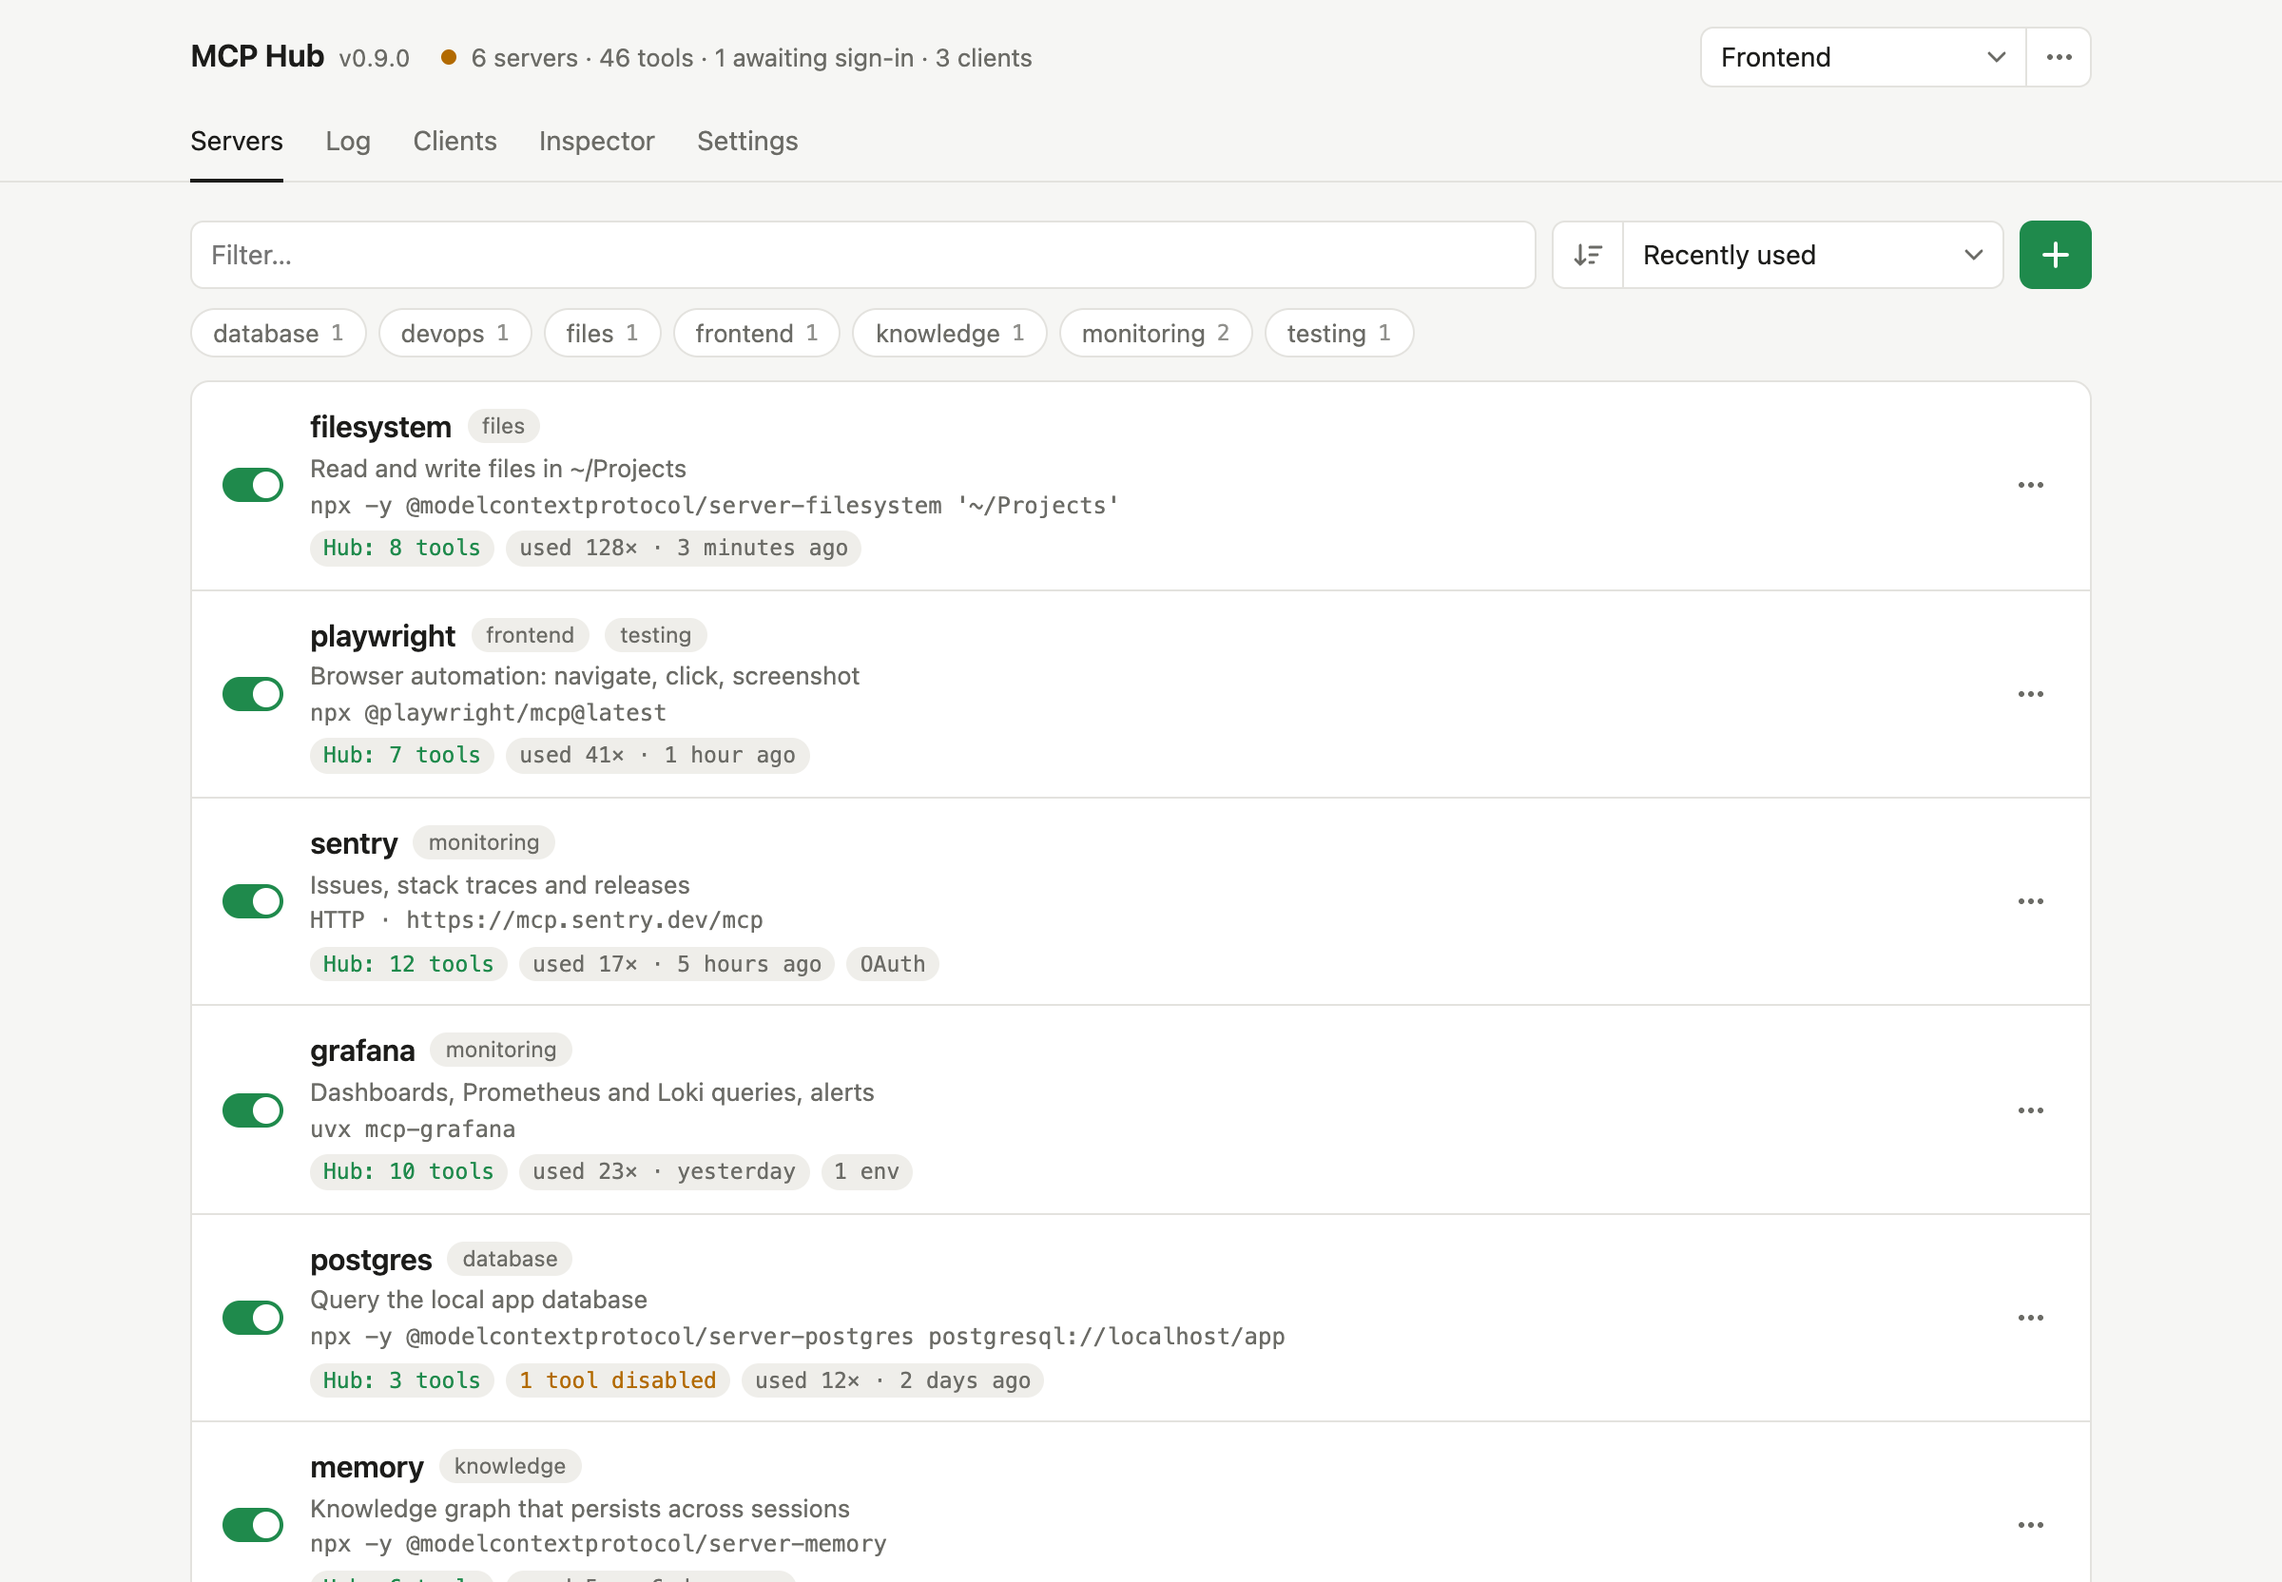
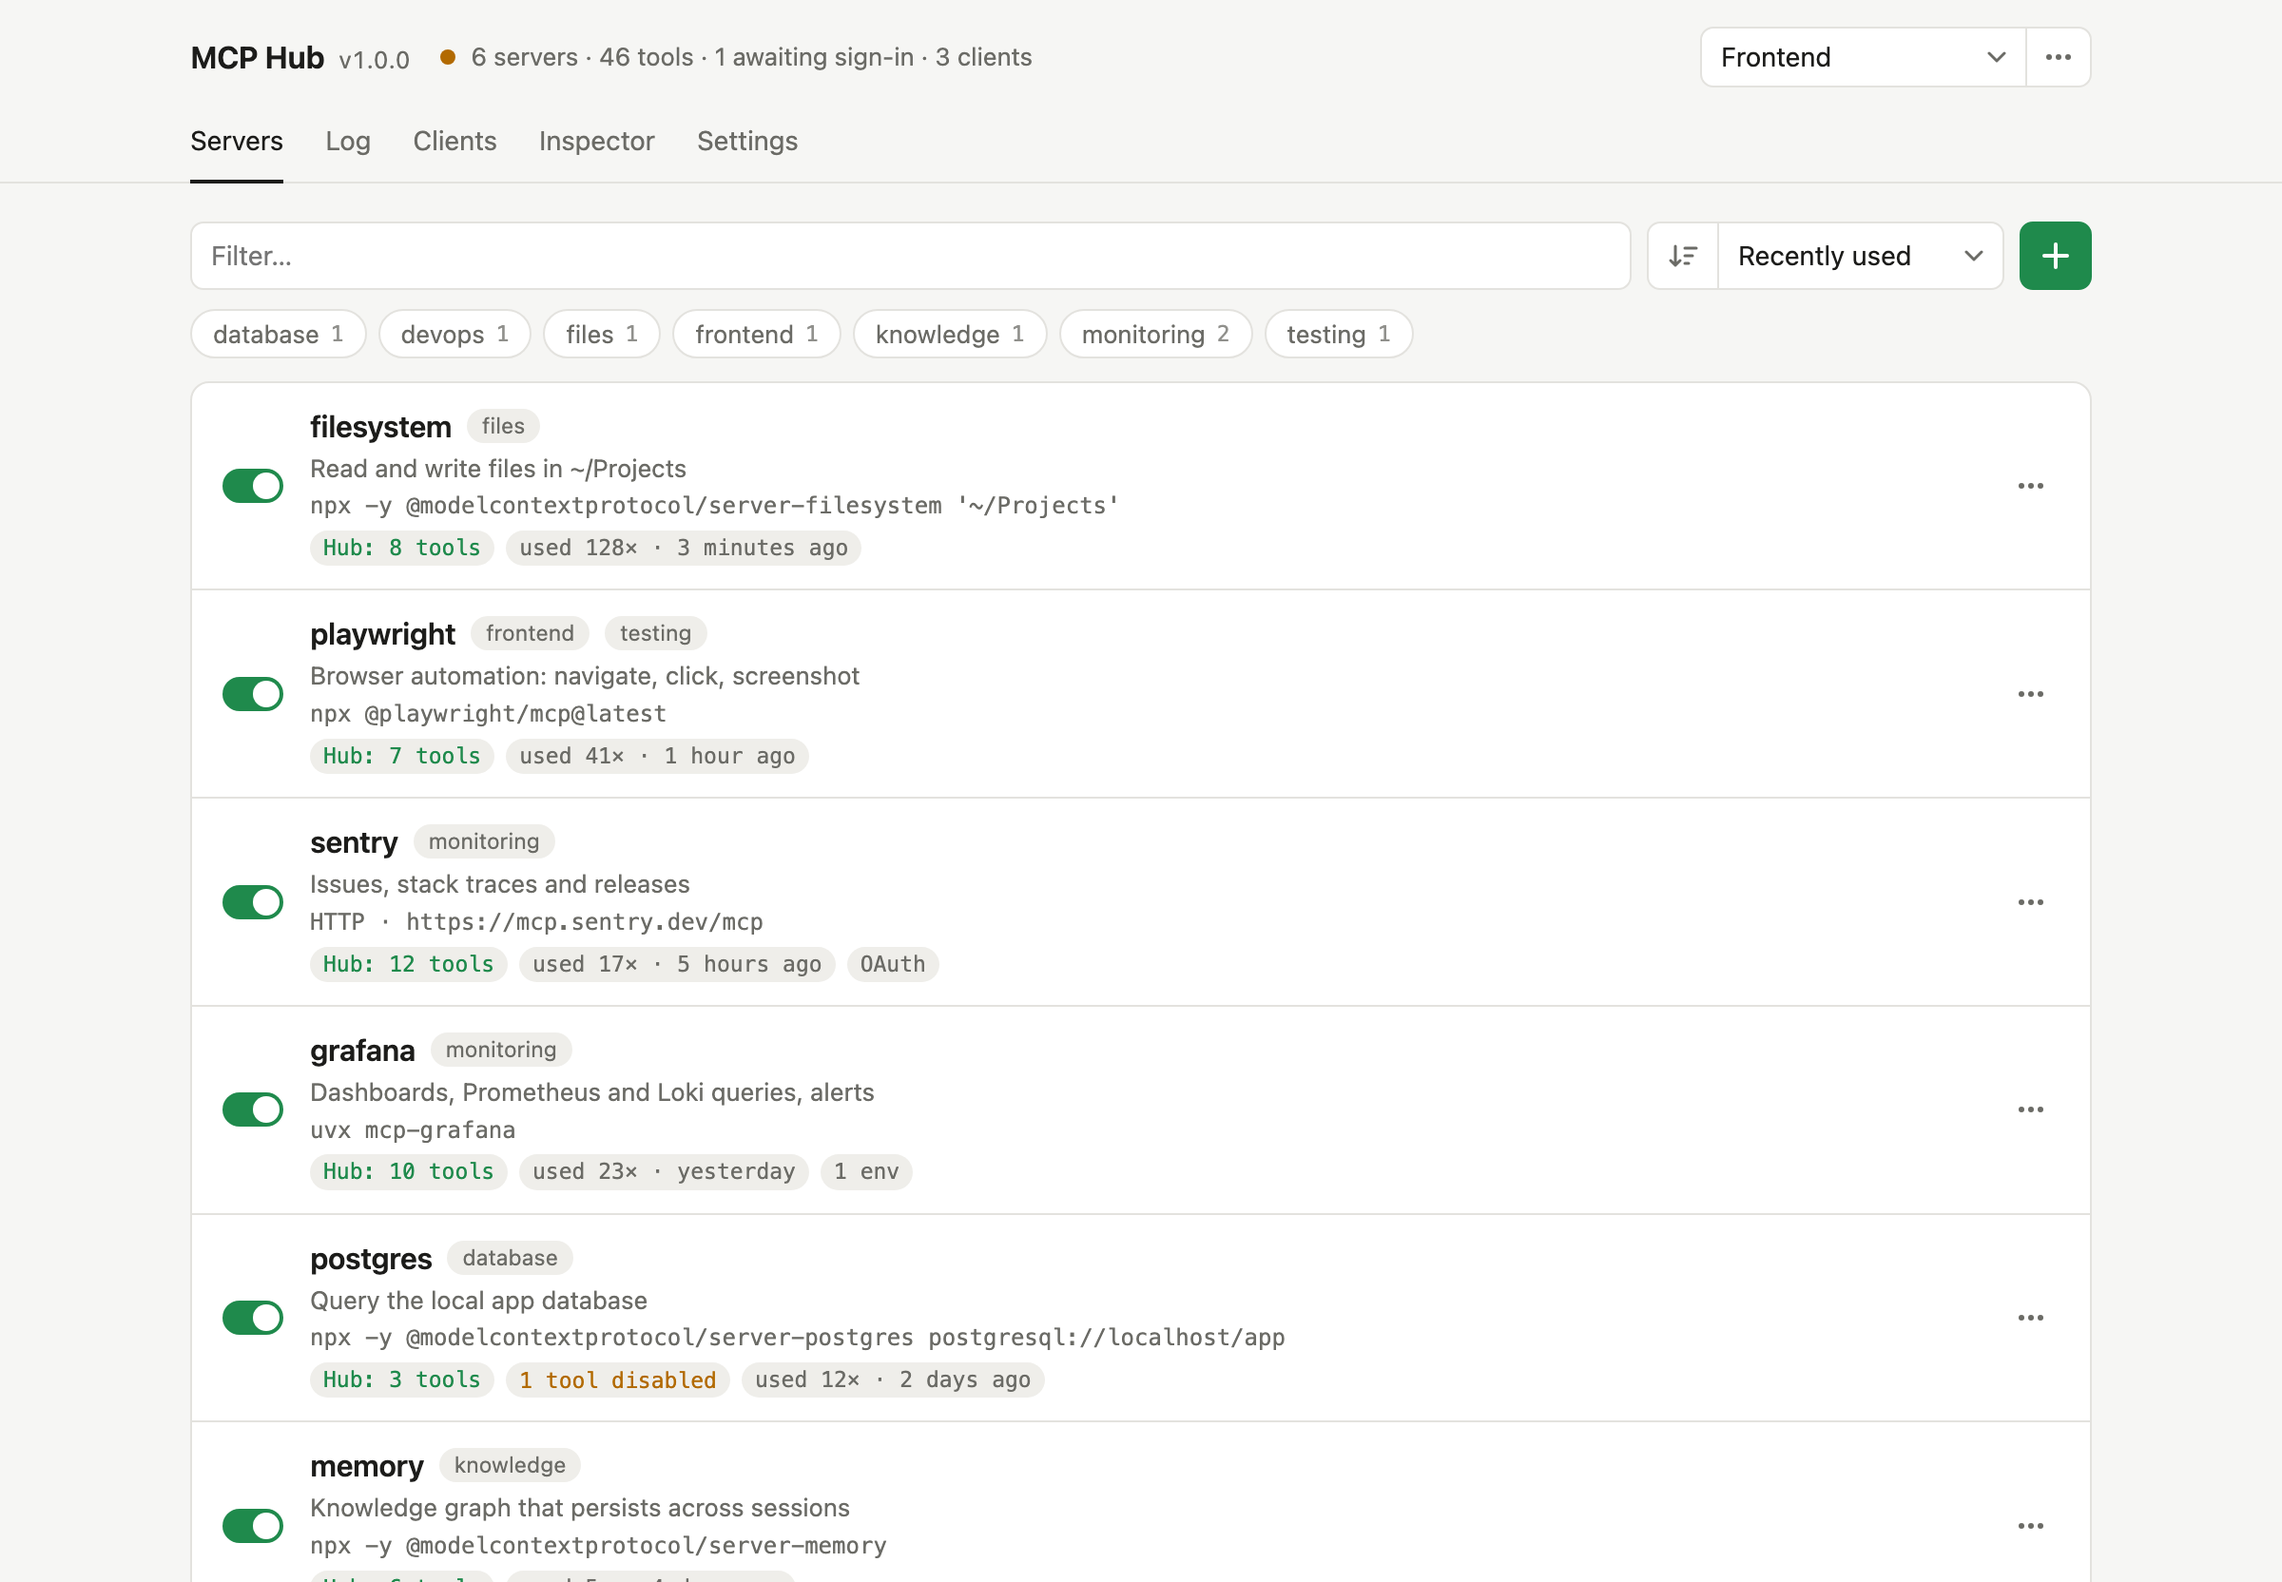
📝 docs: describe the color schemes and refresh the images for v1.0.0

diff --git a/README.md b/README.md
@@ -81,7 +81,7 @@ Everything lives in `~/.config/mcp-hub/` (on Windows `%APPDATA%\mcp-hub\`; overr
 | File | Contents |
 | --- | --- |
 | `servers.json` | Server definitions in `mcpServers` format; `servers.json.bak` is written before every change |
-| `gui-settings.json` | Path to the server file, `passEnvironment`, `language`, `theme`, `checkUpdates` |
+| `gui-settings.json` | Path to the server file, `passEnvironment`, `language`, `theme`, `palette`, `checkUpdates` |
 | `usage.json` | Usage counter per server (count, last call) |
 | `calls.jsonl` | Call log, the last 5,000 entries |
 | `profiles.json` | Saved profiles and the active profile |
@@ -297,9 +297,16 @@ Design rules and components of the interface are documented in [DESIGN.md](DESIG
 - **Log:** every call through the hub with time, client, server, tool, arguments, result preview, duration and error status. Filter by server, client and errors.
 - **Clients:** every session since the last hub start with client name and version, profile endpoint, compact mode, live stream, connection time, last activity and number of calls. “Show in log” opens the log filtered to that client. Clients that never sign off and have no stream are marked idle after 10 minutes.
 - **Inspector:** connects directly to a server (independent of the hub) and lists tools, resources, templates and prompts. Everything can be called with form or JSON input; stderr and notifications appear below.
-- **Settings:** grouped by topic with a list on the left. *Clients* has three cards: the hub endpoint with the compact switch, “Connect clients”, and “Set up by hand” with snippets for Claude Code, Claude Desktop, Codex and Copilot / VS Code. *Server* holds the path to the server file, `passEnvironment` and “Restart hub” (for example after a manual `git pull`), *Updates* the update check, *Interface* the language and the appearance (system, light or dark).
+- **Settings:** grouped by topic with a list on the left. *Clients* has three cards: the hub endpoint with the compact switch, “Connect clients”, and “Set up by hand” with snippets for Claude Code, Claude Desktop, Codex and Copilot / VS Code. *Server* holds the path to the server file, `passEnvironment` and “Restart hub” (for example after a manual `git pull`), *Updates* the update check, *Interface* the language, the appearance (system, light or dark) and the color scheme. Changes under *Interface* apply immediately, without saving.
 
 **Language:** English or German, chosen under Settings → Interface. “Automatic (browser)” follows the browser language. The choice is stored in `gui-settings.json`; it also decides the language of the OAuth return page.
+
+**Color scheme:** Default, Slate, Graphite, Lavender, Coffee or Teal, each in light and dark, chosen under Settings → Interface. Every scheme is shown as a small preview of the interface. Switches and “available” chips take the scheme’s accent; status colors stay green, orange and red. The choice is stored in `gui-settings.json` as `palette`.
+
+<picture>
+  <source media="(prefers-color-scheme: dark)" srcset="docs/color-schemes-dark.png">
+  <img alt="The six color schemes as preview cards under Settings → Interface" src="docs/color-schemes-light.png" width="760">
+</picture>
 
 ### Profiles
 

diff --git a/DESIGN.md b/DESIGN.md
@@ -6,6 +6,10 @@ colors:
   accent-dark: "#4cc27f"
   on-accent: "#ffffff"
   on-accent-dark: "#0e1a12"
+  ok: "#1f8a4c"
+  ok-dark: "#4cc27f"
+  active: "#1f8a4c"
+  active-dark: "#4cc27f"
   warn: "#b26a00"
   warn-dark: "#e0a440"
   bad: "#c0362c"
@@ -139,7 +143,8 @@ There are no native operating-system controls. Selects, checkboxes and menus are
 Neutral, slightly warm grays with a single accent; every color outside the grays reports a state.
 
 ### Primary
-- **Switch Green** (`accent`, dark `accent-dark`): primary buttons, active switches and checkboxes, focus rings (mixed at 40–50 %), status “running”. Text on green uses `on-accent`.
+- **Switch Green** (`accent`, dark `accent-dark`): primary buttons, checkboxes, focus rings (mixed at 40–50 %). Text on green uses `on-accent`.
+- **Active** (`active`): switched-on switches and “available” chips (`Hub: n tools`, active profile, update). Follows the accent hue of the color scheme; in Default it equals the accent.
 
 ### Neutral
 - **Workshop Gray** (`bg`): page background and header.
@@ -150,6 +155,7 @@ Neutral, slightly warm grays with a single accent; every color outside the grays
 - **Ink** (`ink`) and **Label** (`muted`): text and secondary text, icons at rest.
 
 ### Status
+- **Signal Green** (`ok`): status “running” and successful results. Green in every color scheme, even where `accent` and `active` are not.
 - **Signal Orange** (`warn`): deviations that are not errors: “tools disabled”, unsaved profile change (dot), server starting.
 - **Signal Red** (`bad`): errors and destructive menu items (“Delete”).
 
@@ -160,7 +166,10 @@ Neutral, slightly warm grays with a single accent; every color outside the grays
 ### Named Rules
 **The Meaning-Only Rule.** Green, orange and red only appear when they denote a state or the primary action. There is no decorative color.
 
-**The Twin Scheme Rule.** Every color exists as a light and dark pair (`-dark`); new colors are always added as tokens on `:root` for both schemes, never directly on an element. The dark values live twice in `app.css`: under `prefers-color-scheme: dark` guarded by `:root:not([data-theme="light"])`, and under `:root[data-theme="dark"]`; change both together.
+**The Twin Scheme Rule.** Every color exists as a light and dark pair (`-dark`); new colors are always added as tokens on `:root` for both schemes, never directly on an element. The dark values live twice in `app.css`: under `prefers-color-scheme: dark` guarded by `:root:not([data-theme="light"])`, and under `:root[data-theme="dark"]`; change both together. The same holds for every color scheme.
+
+### Color Schemes
+Besides Default there are five schemes: Slate (cool gray, blue accent, after prun), Graphite (neutral gray, black/white accent, steel-blue `active`), Lavender (violet), Coffee (cream and espresso, caramel accent) and Teal. Each one defines the full token set for light and dark under `[data-palette="…"]`; the selectors also match elements below `:root`, so the preview cards in Settings → Interface render each scheme regardless of the active one. `ok`, `warn` and `bad` stay green, orange and red in every scheme; Slate takes its shades from prun, all others use the Default values.
 
 ## Typography
 
